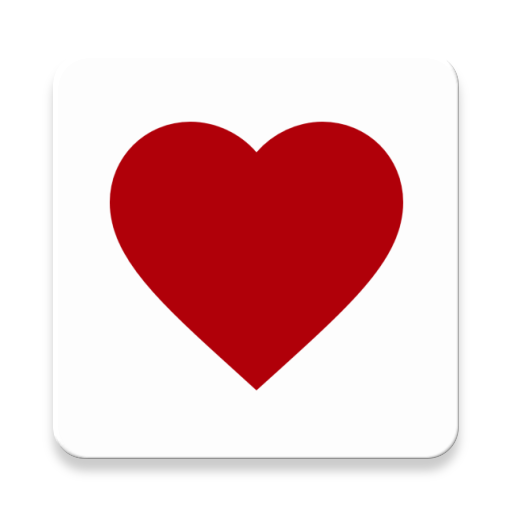
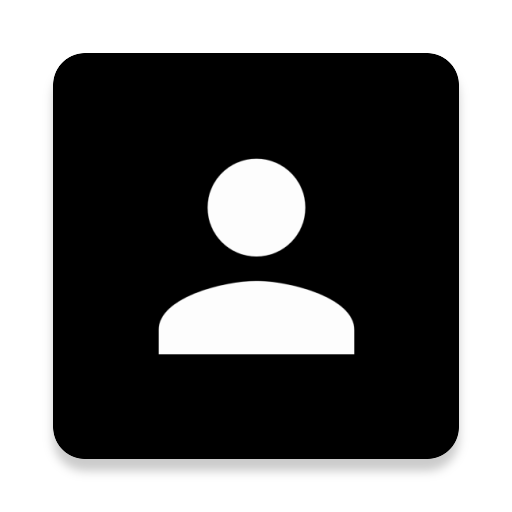
Correção na exibição da foto no perfil do usuário

diff --git a/app/src/main/java/br/com/projetofragmeto/clinup/activity/PrincipalActivity.java b/app/src/main/java/br/com/projetofragmeto/clinup/activity/PrincipalActivity.java
@@ -72,11 +72,13 @@ public class PrincipalActivity extends AppCompatActivity {
     private TabLayout tabLayout;
     private ViewPager viewPager;
 
-
     @Override
     protected void onCreate(Bundle savedInstanceState) {
         super.onCreate(savedInstanceState);
         setContentView(R.layout.activity_principal);
+
+        toolbar = findViewById(R.id.toolbar);
+        setSupportActionBar(toolbar);
 
         autenticacaoUsuario = ConfiguracaoFirebase.getFirebaseAutenticacao();
 
@@ -88,10 +90,6 @@ public class PrincipalActivity extends AppCompatActivity {
 
         setupTabIcons();
 
-        toolbar = findViewById(R.id.toolbar);
-        setSupportActionBar(toolbar);
-
-
         FloatingActionButton fab = findViewById(R.id.fab);
         fab.setOnClickListener(new View.OnClickListener() {
             @Override
@@ -100,10 +98,8 @@ public class PrincipalActivity extends AppCompatActivity {
             }
         });
 
-
         Preferencias preferencesUser = new Preferencias(PrincipalActivity.this);
         String idUsuarios = preferencesUser.getIdentificador();
-
 
         //initialize and create the image loader logic
         DrawerImageLoader.init(new AbstractDrawerImageLoader() {
@@ -117,7 +113,6 @@ public class PrincipalActivity extends AppCompatActivity {
                 Picasso.with(imageView.getContext()).cancelRequest(imageView);
             }
         });
-
 
         mReadDataOnce(idUsuarios, new OnGetDataListener() {
             @Override
@@ -151,7 +146,7 @@ public class PrincipalActivity extends AppCompatActivity {
                         profile = new ProfileDrawerItem().withEmail(emailUser).withName(nomeUser).withIcon(fotoUser);
 
                     } else {
-                        profile = new ProfileDrawerItem().withEmail(emailUser).withName(nomeUser).withIcon(R.mipmap.ic_launcher);
+                        profile = new ProfileDrawerItem().withEmail(emailUser).withName(nomeUser).withIcon(R.mipmap.foto_defau_round);
                     }
 
 
@@ -171,9 +166,6 @@ public class PrincipalActivity extends AppCompatActivity {
                             .build();
                     //################################# - Google - ################################################
 
-
-                    //################################# -  - ################################################
-
                     // Create the AccountHeader
                     AccountHeader headerResult = new AccountHeaderBuilder()
                             .withActivity(PrincipalActivity.this)
@@ -190,6 +182,9 @@ public class PrincipalActivity extends AppCompatActivity {
                     //if you want to update the items at a later time it is recommended to keep it in a variable
                     PrimaryDrawerItem item1 = new PrimaryDrawerItem().withIdentifier(1).withName("Home").withIcon(FontAwesome.Icon.faw_home);
                     PrimaryDrawerItem item2 = new PrimaryDrawerItem().withIdentifier(2).withName("Perfil").withIcon(FontAwesome.Icon.faw_user);
+                    PrimaryDrawerItem item3 = new PrimaryDrawerItem().withIdentifier(3).withName("Agendamentos").withIcon(FontAwesome.Icon.faw_calendar_check);
+                    PrimaryDrawerItem item4 = new PrimaryDrawerItem().withIdentifier(4).withName("Favoritos").withIcon(FontAwesome.Icon.faw_heart2);
+                    PrimaryDrawerItem item5 = new PrimaryDrawerItem().withIdentifier(5).withName("Buscar").withIcon(FontAwesome.Icon.faw_search);
 
                     //Cria o drawer e lembra o 'Drawer' resulto objeto
                     result = new DrawerBuilder()
@@ -198,7 +193,10 @@ public class PrincipalActivity extends AppCompatActivity {
                             .withToolbar(toolbar)
                             .addDrawerItems(
                                     item1,
-                                    item2
+                                    item2,
+                                    item3,
+                                    item4,
+                                    item5
                             )
                             .withOnDrawerItemClickListener(new Drawer.OnDrawerItemClickListener() {
                                 @Override
@@ -218,8 +216,19 @@ public class PrincipalActivity extends AppCompatActivity {
                                             startActivity(intent);
 
                                         }
-
                                         if (drawerItem.getIdentifier() == 3) {
+
+
+                                        }
+                                        if (drawerItem.getIdentifier() == 4) {
+
+
+                                        }
+                                        if (drawerItem.getIdentifier() == 5) {
+                                            goToBuscaActivity();
+                                        }
+
+                                        if (drawerItem.getIdentifier() == 6) {
                                             logout();
                                         }
                                     }
@@ -229,7 +238,7 @@ public class PrincipalActivity extends AppCompatActivity {
                             .withTranslucentStatusBar(false)
                             .build();
 
-                    result.addStickyFooterItem(new PrimaryDrawerItem().withIdentifier(3).withName("Sair").withIcon(FontAwesome.Icon.faw_sign_out_alt));
+                    result.addStickyFooterItem(new PrimaryDrawerItem().withIdentifier(6).withName("Sair").withIcon(FontAwesome.Icon.faw_sign_out_alt));
                 }
             }
 
@@ -255,7 +264,6 @@ public class PrincipalActivity extends AppCompatActivity {
         });
     }
 
-
     private void logout() {
 
         logOutGoogle();
@@ -280,14 +288,12 @@ public class PrincipalActivity extends AppCompatActivity {
         });
     }
 
-
     private void goLogInScreen() {
         Intent intent = new Intent(this, LoginActivity.class);
         intent.addFlags(Intent.FLAG_ACTIVITY_CLEAR_TOP | Intent.FLAG_ACTIVITY_CLEAR_TASK | Intent.FLAG_ACTIVITY_NEW_TASK);
         startActivity(intent);
         finish();
     }
-
 
     private void setupTabIcons() {
 
@@ -359,5 +365,6 @@ public class PrincipalActivity extends AppCompatActivity {
             super.onBackPressed();
         }
     }
+
 
 }

diff --git a/app/src/main/java/br/com/projetofragmeto/clinup/activity/PerfilActivity.java b/app/src/main/java/br/com/projetofragmeto/clinup/activity/PerfilActivity.java
@@ -1,14 +1,22 @@
 package br.com.projetofragmeto.clinup.activity;
 
 import android.content.Intent;
+import android.graphics.Bitmap;
+import android.graphics.BitmapFactory;
+import android.net.Uri;
 import android.os.Bundle;
 import android.support.annotation.NonNull;
+import android.support.v4.graphics.drawable.RoundedBitmapDrawable;
+import android.support.v4.graphics.drawable.RoundedBitmapDrawableFactory;
 import android.support.v7.app.AppCompatActivity;
 import android.view.MenuItem;
 import android.view.View;
 import android.widget.Button;
+import android.widget.ImageView;
 import android.widget.TextView;
 
+import com.bumptech.glide.Glide;
+import com.bumptech.glide.request.target.BitmapImageViewTarget;
 import com.google.firebase.database.DataSnapshot;
 import com.google.firebase.database.DatabaseError;
 import com.google.firebase.database.DatabaseReference;
@@ -20,10 +28,8 @@ import br.com.projetofragmeto.clinup.helper.Preferencias;
 import br.com.projetofragmeto.clinup.model.Usuario;
 
 public class PerfilActivity extends AppCompatActivity {
-    private TextView nome;
-    private TextView email;
-    private TextView telefone;
-    private TextView dataNascimento;
+    private TextView nome, email, telefone, dataNascimento;
+    private ImageView foto;
     private Button editarCadastro;
     private DatabaseReference usuarioReferencia;
     private android.support.v7.widget.Toolbar toolbar;
@@ -32,7 +38,6 @@ public class PerfilActivity extends AppCompatActivity {
     protected void onCreate(Bundle savedInstanceState) {
         super.onCreate(savedInstanceState);
         setContentView(R.layout.activity_perfil);
-
 
         toolbar = findViewById(R.id.toolbarActivity);
         toolbar.setTitle("Perfil");
@@ -43,6 +48,7 @@ public class PerfilActivity extends AppCompatActivity {
             getSupportActionBar().setDisplayShowHomeEnabled(true);
         }
 
+        foto = findViewById(R.id.imageView2);
         nome = findViewById(R.id.nome_id);
         email = findViewById(R.id.email_id);
         telefone = findViewById(R.id.telefone_id);
@@ -63,13 +69,31 @@ public class PerfilActivity extends AppCompatActivity {
             @Override
             public void onDataChange(@NonNull DataSnapshot dataSnapshot) {// método chamado sempre que os dados forem alterados no banco
 
-                Usuario usuario = dataSnapshot.getValue(Usuario.class);
+                if (dataSnapshot.exists()) {
+                    Usuario usuario = dataSnapshot.getValue(Usuario.class);
 
-                if (usuario != null) {
-                    nome.setText(usuario.getNome());
-                    email.setText(usuario.getEmail());
-                    dataNascimento.setText(usuario.getDataNascimento());
-                    telefone.setText(usuario.getTelefone());
+                    if (usuario != null) {
+                        nome.setText(usuario.getNome());
+                        email.setText(usuario.getEmail());
+                        dataNascimento.setText(usuario.getDataNascimento());
+                        telefone.setText(usuario.getTelefone());
+
+                        if (dataSnapshot.hasChild("foto")) {
+                            //Exibe a foto de perfil do usuário através do Glide
+                            Glide.with(getApplicationContext()).asBitmap().load(usuario.getFoto()).into(new BitmapImageViewTarget(foto) {
+                                @Override
+                                protected void setResource(Bitmap resource) {
+                                    //Transforma a foto em formato circular
+                                    RoundedBitmapDrawable circularBitmapDrawable =
+                                            RoundedBitmapDrawableFactory.create(PerfilActivity.this.getResources(), resource);
+                                    circularBitmapDrawable.setCircular(true);
+                                    foto.setImageDrawable(circularBitmapDrawable);
+                                }
+                            });
+                        }else{
+                            foto.setImageResource(R.mipmap.foto_defau_round);
+                        }
+                    }
                 }
             }
 

diff --git a/app/src/main/java/br/com/projetofragmeto/clinup/fragments/ListaFragment.java b/app/src/main/java/br/com/projetofragmeto/clinup/fragments/ListaFragment.java
@@ -35,7 +35,6 @@ public class ListaFragment extends Fragment {
     public ArrayList<Agendamento> agendObjetos = new ArrayList<Agendamento>();
 
     public ListaFragment() {
-
     }
 
     @Override
@@ -108,7 +107,6 @@ public class ListaFragment extends Fragment {
                 intent.putExtra("dataConsulta", agendObjetos.get(i).getDataConsulta());
                 intent.putExtra("plano", agendObjetos.get(i).getIdPlano());
                 intent.putExtra("cliente", agendObjetos.get(i).getIdCliente());
-
 
                 intent.putExtra("classe", Agendamento.class);
                 startActivity(intent);
